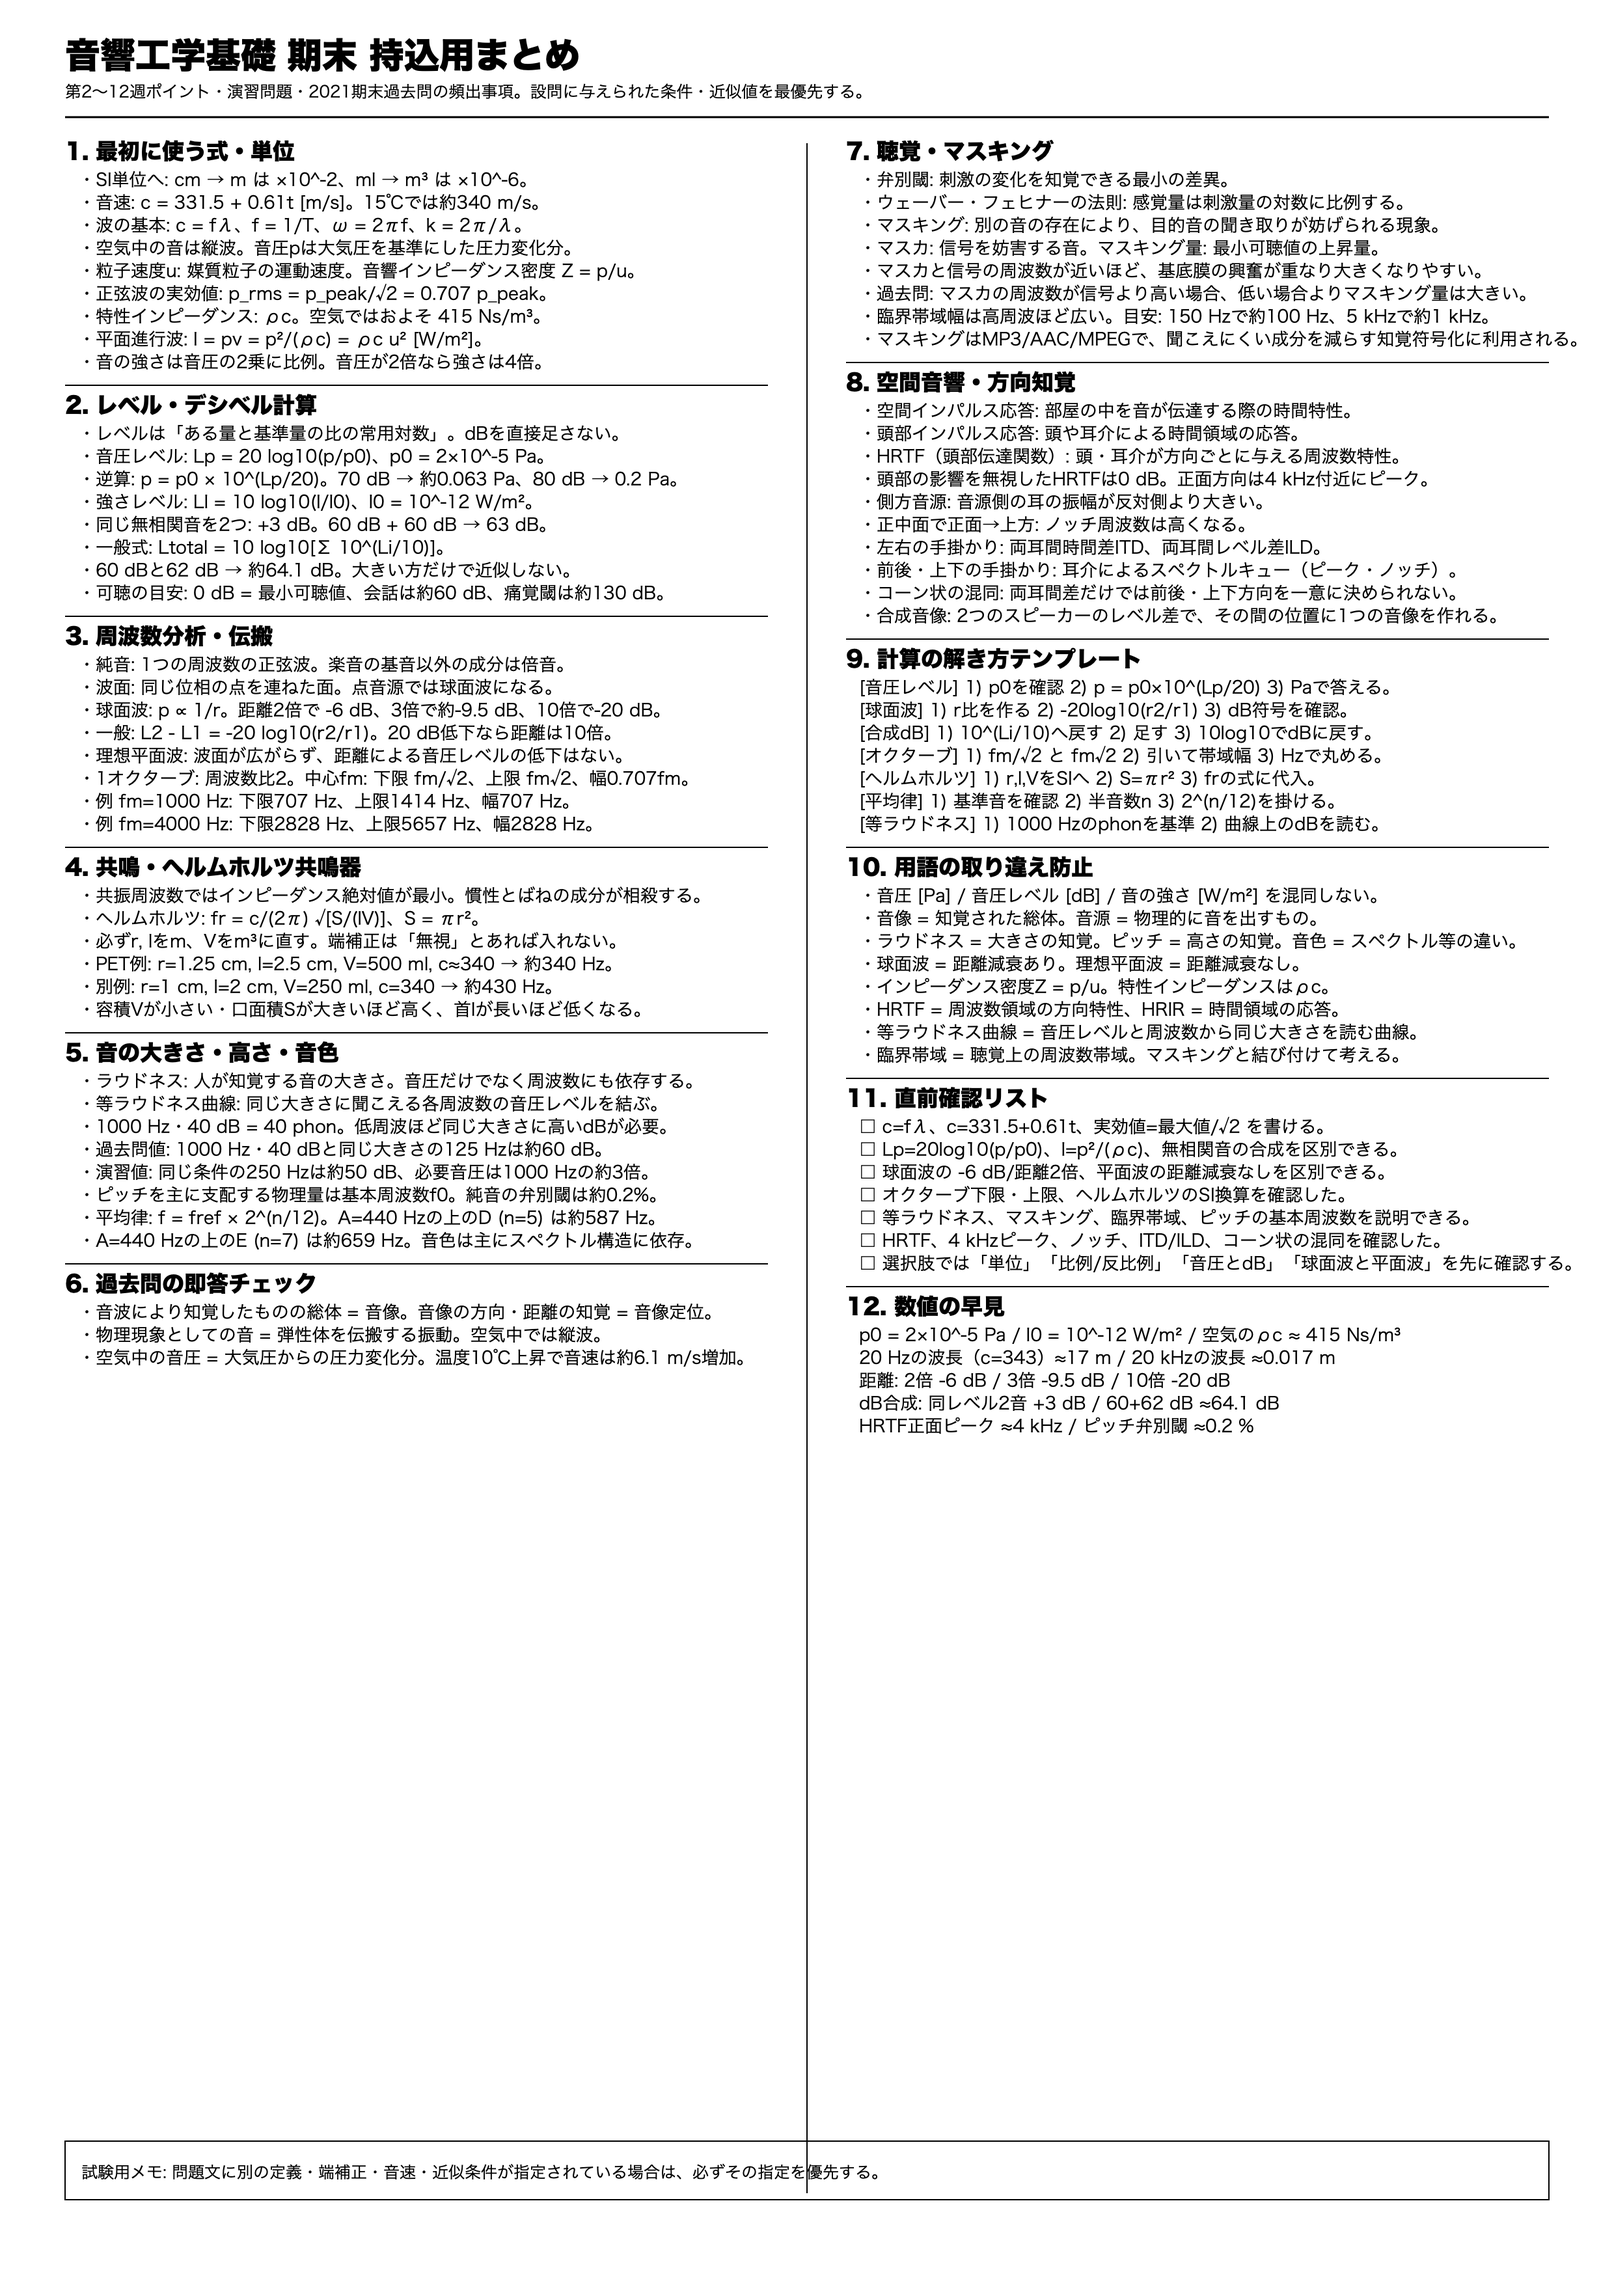
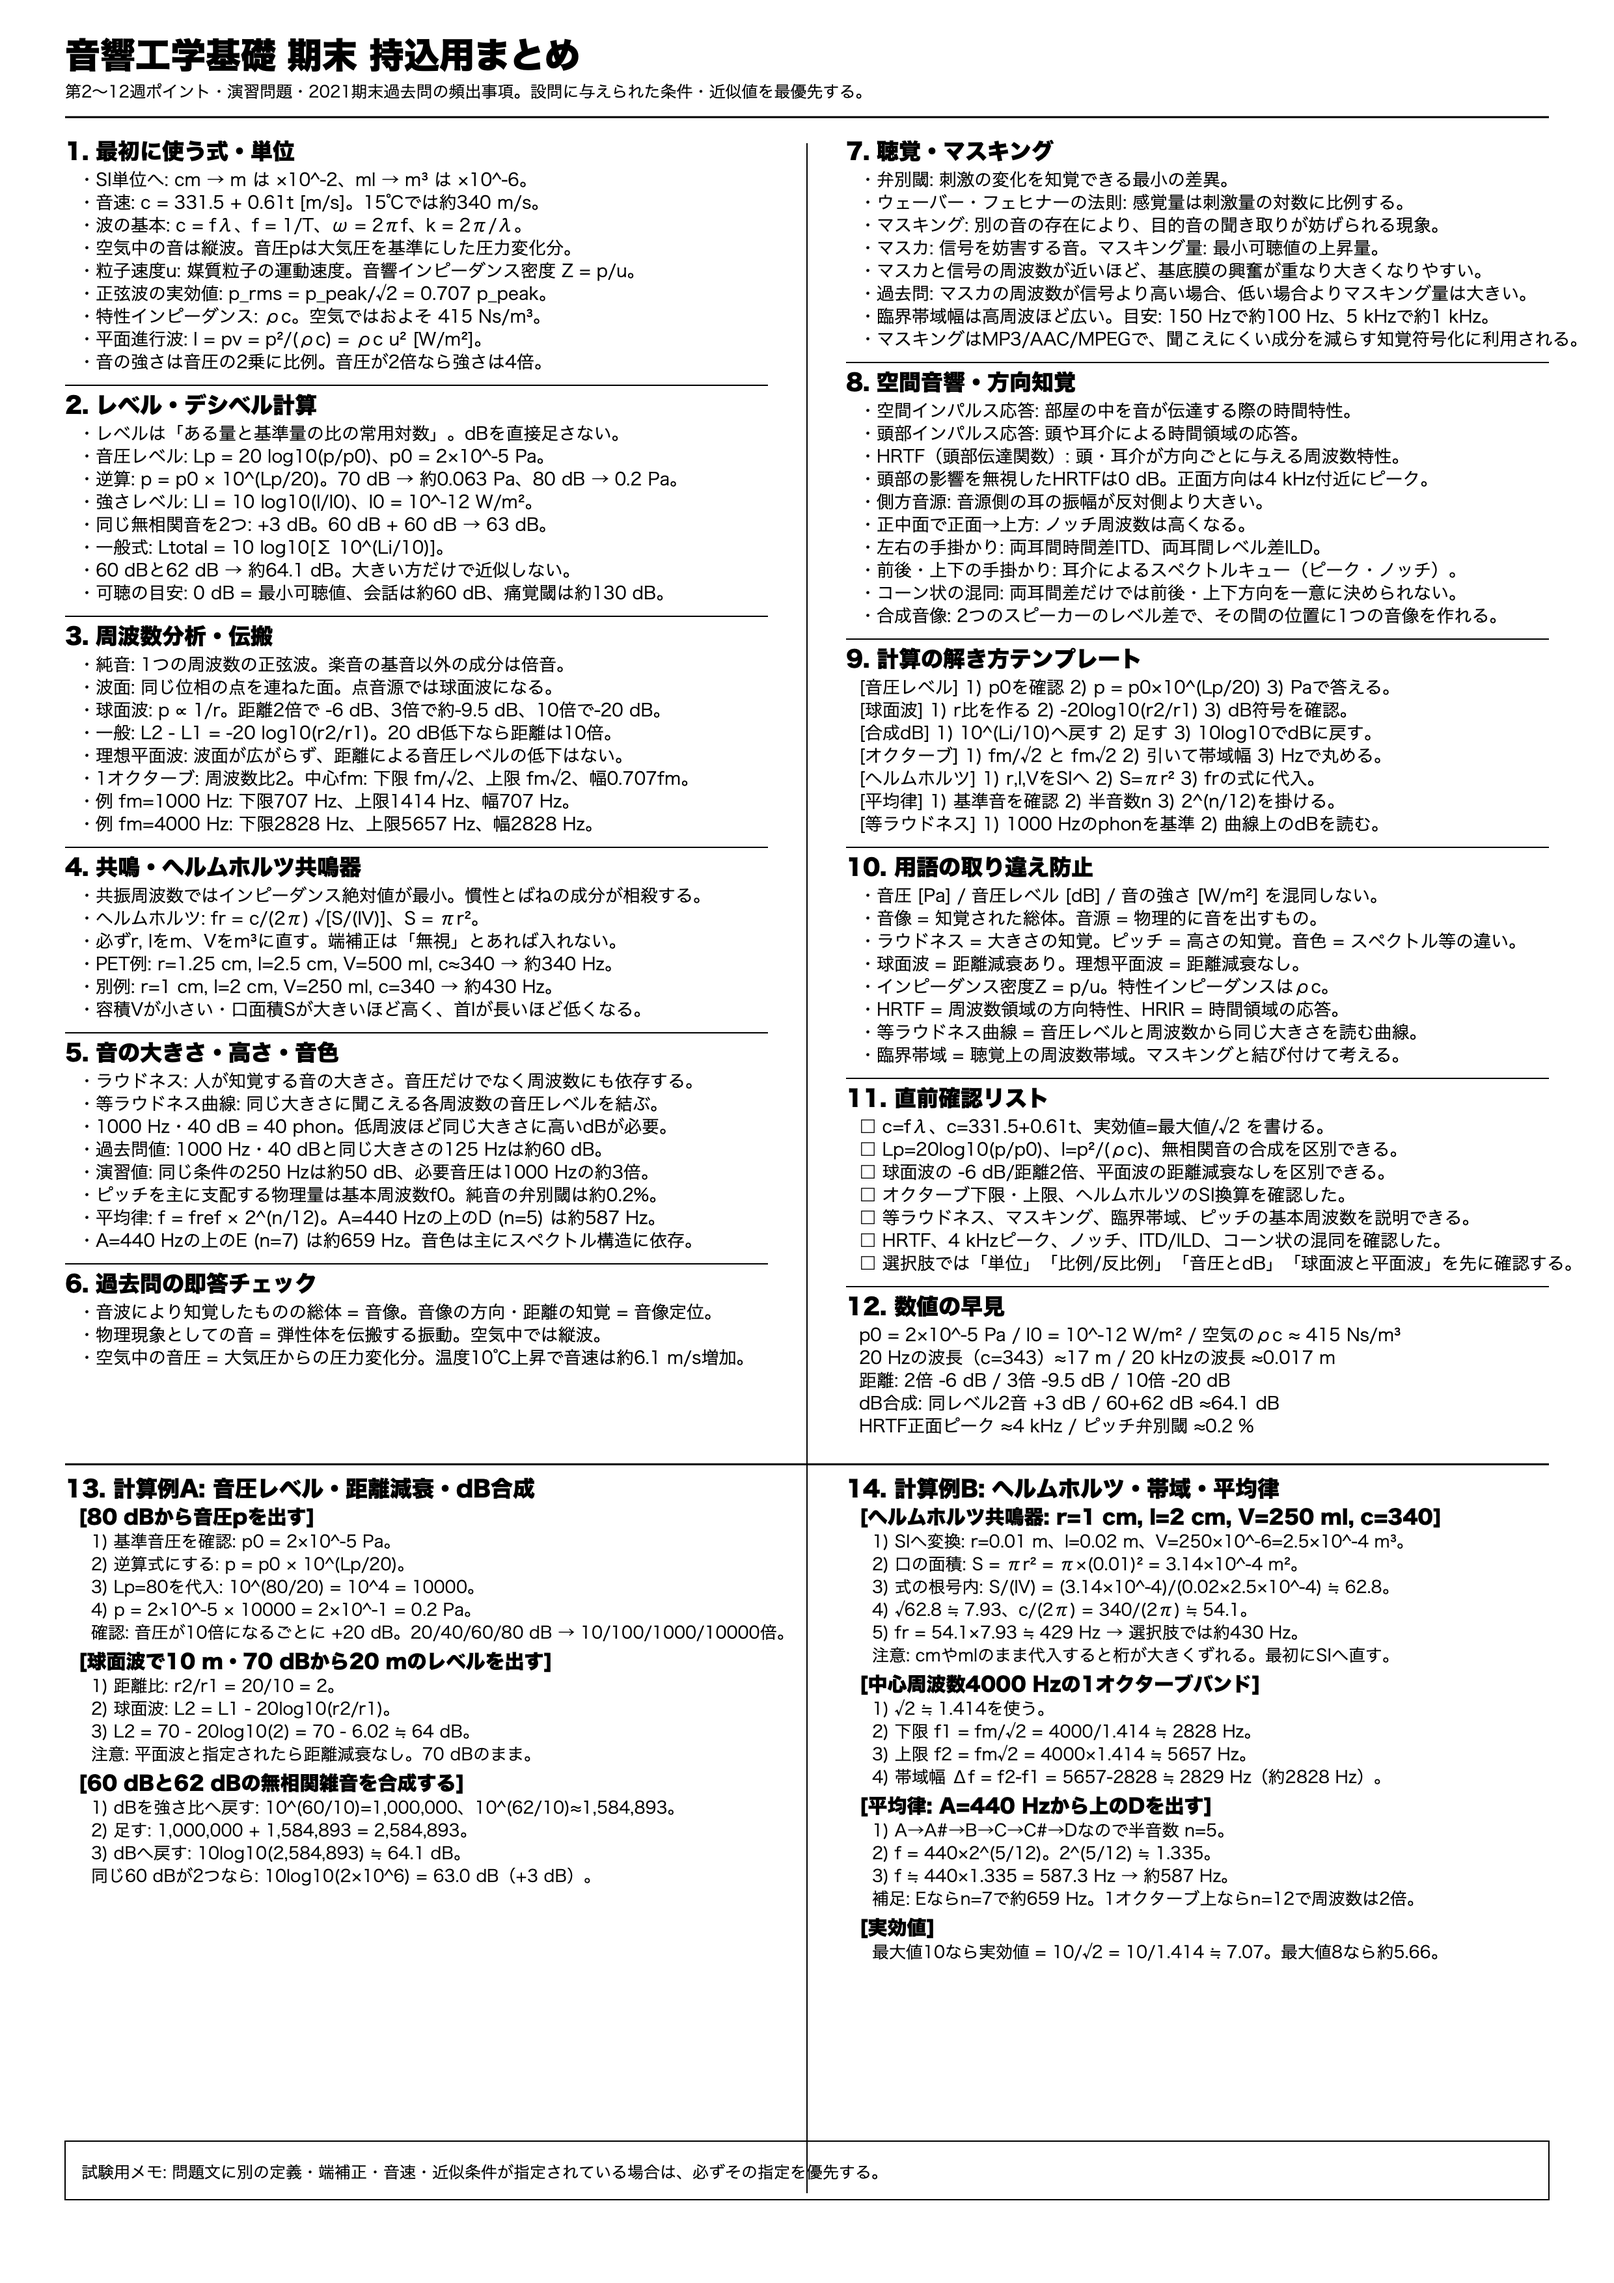
Clarify acoustics cheatsheet calculations

Changed region(s): [[0.5278, 0.6214, 0.9004, 0.87], [0.031, 0.6214, 0.3415, 0.8389], [0.8073, 0.8079, 0.8383, 0.8389]]

diff --git a/service-worker.js b/service-worker.js
@@ -1,4 +1,4 @@
-const CACHE_NAME = "keizai-quiz-v57";
+const CACHE_NAME = "keizai-quiz-v58";
 const ASSETS = [
   "./",
   "./index.html",
